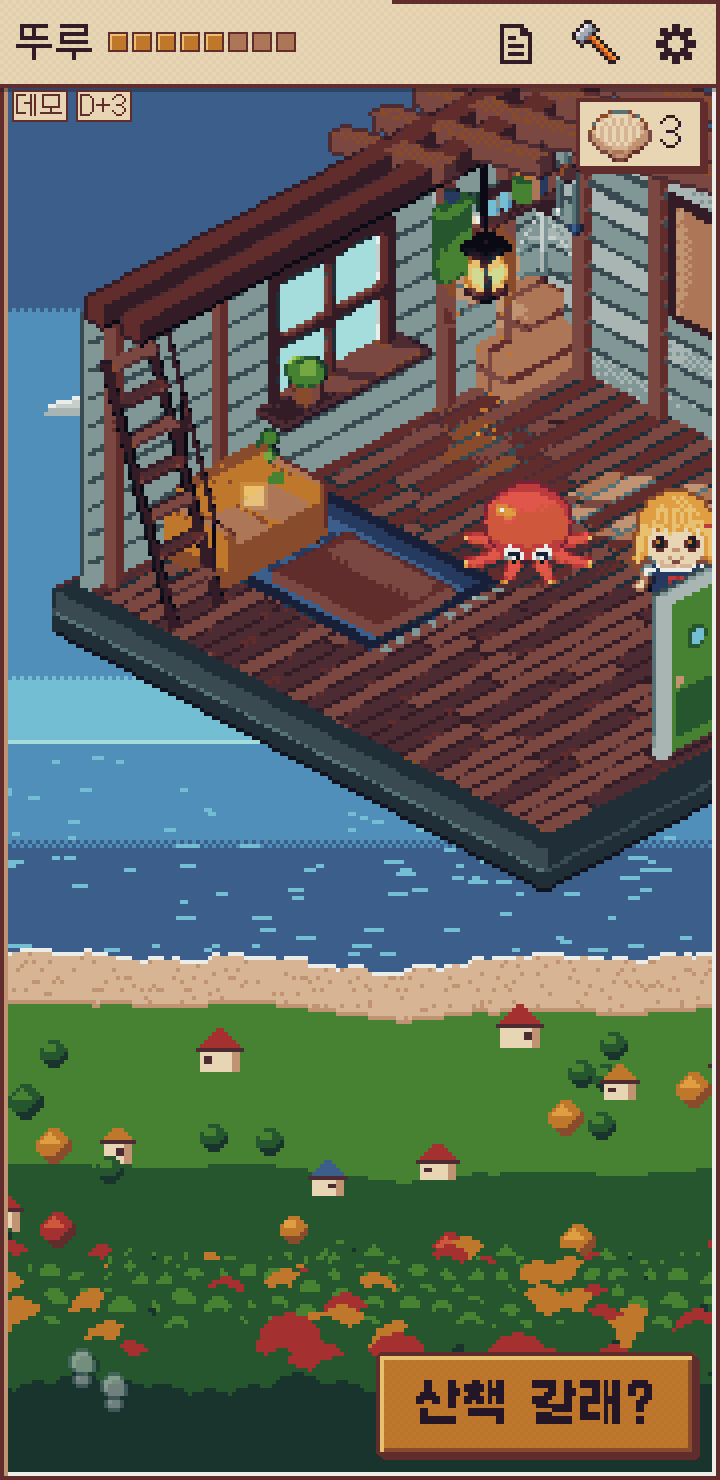
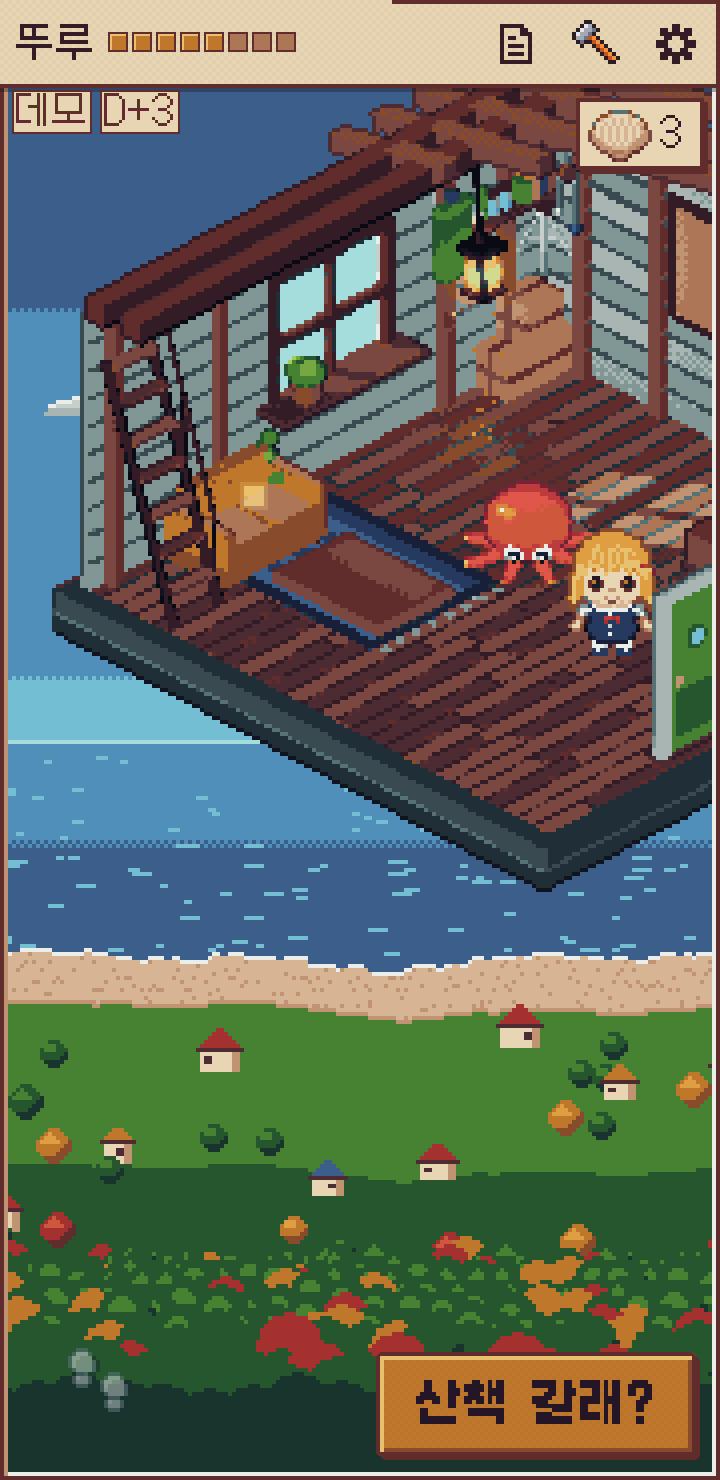
상태 줄: 'D+N' 자리를 '데모' 꼬리표 끝에서 4 px 로 (배율마다) · 시험: 말풍선 크기 식을 fs-snap 과 같게 · 계단 그림 스크린샷
Claude-Session: https://claude.ai/code/session_01Tq2y4RoYgpT5jfRgYAa5sm

diff --git a/tools/smoke.js b/tools/smoke.js
@@ -5128,7 +5128,7 @@ async function scenarioTapFit(browser) {
           if (r.dy) slid++;
           /* 11-15 갈래 H (주인: 말풍선이 화면을 가린다) → 5차 (주인: 글자 조금 키움): 폭은 장면의 60% (150~220px) · 픽셀은 Galmuri11 을 기기 px 에 맞춘 약 17px
              (눈금 12 × 정수 n / 배율 — index.html 머리 스크립트의 --bub-fs, 배율 1 이면 12px) · 줄 높이 1.5 · 24+… 줄은 세 줄 안 */
-          var capW = Math.max(150, Math.min(220, Math.floor(r.sw * 0.6))), bubFs = Math.ceil(12 * Math.max(1, Math.round(17 * r.dpr / 12)) / r.dpr * 64) / 64;   /* 11-15 js/fs-snap.js 와 같은 식 (1/64 px 올림) */
+          var capW = Math.max(150, Math.min(220, Math.floor(r.sw * 0.6))), bubFs = (function (v) { return v > 17 * 1.35 ? 17 : v; })(Math.ceil(12 * Math.max(1, Math.ceil(17 * r.dpr / 12 - 1e-6)) / r.dpr * 64) / 64);   /* 11-24 js/fs-snap.js 그대로 (17 px 밑으로 안 내려감 · 다음 눈금이 너무 크면 17) */
           if (r.w > capW + 0.5) sizeBad.push(vp[0] + ' ' + theme + ' ' + a + ' L' + li + ' w ' + r.w + ' > ' + capW);
           if (theme === 'pixel' && (Math.abs(parseFloat(r.fs) - bubFs) > 0.01 || r.ff !== 'Galmuri11' || Math.abs(r.lh - bubFs * 1.5) > 0.6)) sizeBad.push(vp[0] + ' pixel font ' + r.fs + ' ' + r.ff + ' ' + r.lh + ' (바람 ' + bubFs + ')');
           if (li === 1 && r.lh && Math.round((r.h - r.bt) / r.lh) > 3) sizeBad.push(vp[0] + ' ' + theme + ' ' + a + ' lines ' + Math.round((r.h - r.bt) / r.lh));

diff --git a/js/app.js b/js/app.js
@@ -5517,11 +5517,20 @@ var APP = (function () {
     }
   }
   if (window.MutationObserver && document.body) { new MutationObserver(ffSync).observe(document.documentElement, { attributes: true, attributeFilter: ['data-font'] }); ffSync(); }
+  /* 11-24 폰 (꼬리표를 바 아래에 매다는 폭): 'D+N' 은 '데모' 꼬리표의 실제 오른쪽 끝에서 4 px — 글자 크기가 배율마다 달라 (16 · 18 · 20.6 px) 고정 자리는 겹치거나 벌어졌다 */
+  function placeDayN() {
+    var el = $('day-n'), tg = $('brain-tag'); if (!el || !tg) return;
+    if (getComputedStyle(el).position !== 'absolute' || tg.hidden || getComputedStyle(tg).position !== 'absolute') { el.style.removeProperty('left'); return; }
+    el.style.left = (tg.offsetLeft + tg.offsetWidth + 4) + 'px';
+  }
+  if (window.ResizeObserver) { var dnRO = new ResizeObserver(function () { placeDayN(); }); ['brain-tag', 'day-n'].forEach(function (id) { var e = $(id); if (e) dnRO.observe(e); }); }
+  window.addEventListener('resize', function () { placeDayN(); });
   function dayCount() { return isObj(S.user) && Array.isArray(S.user.days) ? S.user.days.length : 0; }
   function renderDayN() {
     var el = $('day-n'), n = dayCount(); if (!el) return;
     el.hidden = n < 1; el.textContent = n < 1 ? '' : 'D+' + n;
     if (n < 1) el.removeAttribute('aria-label'); else el.setAttribute('aria-label', '들어온 지 ' + n + '일째');
+    placeDayN();
   }
 
 
